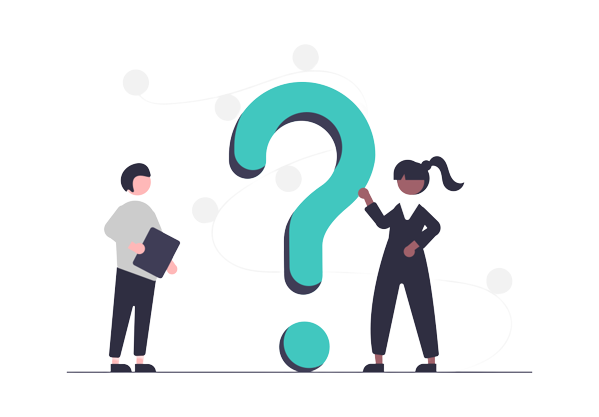
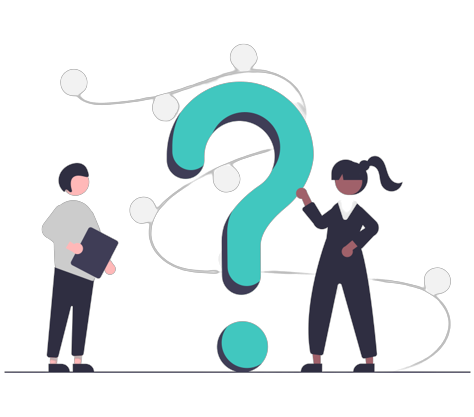
trying to make the gettarted page

diff --git a/src/app/(pages)/get-started/page.js b/src/app/(pages)/get-started/page.js
@@ -5,9 +5,9 @@ import GlobalSpinner from '@/Components/GlobalSpinner';
 import { SitePrimaryFont, SiteSecondaryFont } from '@/fonts/Fonts';
 import { GlobalTheme } from '@/theme';
 import { useAuth0 } from '@auth0/auth0-react'
-import { Box, Center, Container, HStack, Heading, Spinner, Text, VStack } from '@chakra-ui/react'
+import { Box, Center, Container, HStack, Heading, Input, Spinner, Text, VStack } from '@chakra-ui/react'
 import Image from 'next/image';
-import React, { useState } from 'react'
+import React, { useEffect, useState } from 'react'
 import {AiOutlineArrowRight} from 'react-icons/ai'
 
 
@@ -19,10 +19,16 @@ function page() {
     // Fixed size of the image
     const IMG_SIZE = 600;
 
-    const [stepCount, setStepCount] = useState(1)
+    const [stepCount, setStepCount] = useState(0)
 
     // Array of Objects that carries info required for logic
     const dots = ["•","•", "•"];
+
+    // No. of times workout state
+    const [times , setTimes] = useState(3)
+
+    // Shows the btn
+    const [isNotEmpty , setIsNotEmpty] = useState(true);
 
     const handleSteps = () => {
         
@@ -34,25 +40,48 @@ function page() {
     if(!user){
         return <GlobalSpinner />
     }
+    
+    
+    
 
   return (
     // Step 1 
     <Container w={'100%'} h={'100vh'} display={'flex'} alignItems={'center'}>
-        <VStack textAlign={'center'} >
-        <Image  alt='step1' width={IMG_SIZE}  height={IMG_SIZE} src={'/get-started-assets/1.png'}/>
-        <Heading fontWeight={'bold'} letterSpacing={'2px'} size={'3xl'} className={SitePrimaryFont.className}>Hello <span style={{color: GlobalTheme.primary}}>{user.name.split(" ")[0]}</span>.</Heading>
-        <Text mt={'5'} color={'#fff'} className={SiteSecondaryFont.className}  >Thanks for trying out progressive pulse. I need some details in order to track your workout efficiently</Text>
+       <form action="">
+       <VStack textAlign={'center'} >
+            {/* Step: 1 Component */}
+        {
+            stepCount === 0 ? <Box>
+            <Image  alt='step1' width={IMG_SIZE}  height={IMG_SIZE} src={'/get-started-assets/1.png'}/>
+            <Heading fontWeight={'bold'} letterSpacing={'2px'} size={'3xl'} className={SitePrimaryFont.className}>Hello <span style={{color: GlobalTheme.primary}}>{user.name.split(" ")[0]}</span>.</Heading>
+            <Text mt={'5'} color={'#fff'} className={SiteSecondaryFont.className}  >Thanks for trying out progressive pulse. I need some details in order to track your workout efficiently</Text>
+            </Box> : stepCount === 1 ?  <Box display={'flex'} justifyContent={'center'} flexDirection={'column'} alignItems={'center'}>
+            <Image  alt='step2' width={IMG_SIZE - 100}  height={IMG_SIZE -100} src={'/get-started-assets/2.png'}/>
+            <Heading fontWeight={'bold'} letterSpacing={'2px'} size={'3xl'} className={SitePrimaryFont.className}>How many times do you workout?</Heading>
+            <div>
+            <Input  type='number' mt={'5'} placeholder='Enter here' textAlign={'center'} w={'30%'} required value={times} onChange={(e) => {
+               setTimes(e.target.value) 
+              
+            }}/>
+            </div>
+            </Box> : stepCount === 2 ? <Box>three</Box> : null
+        }
+        
+       
         <HStack mb={'7'}>
         {
             dots.map((dot , i) => {
-                return <Text key={i} color={stepCount === i + 1 ? GlobalTheme.primary : null}>{dot}</Text>
+                return <Text key={i} color={stepCount === i  ? GlobalTheme.primary : null}>{dot}</Text>
             })
         }
         </HStack>
-        <Box onClick={handleSteps}>
-        <GlobalButton variant='solid' value="OK , Next Step" rightIcon={<AiOutlineArrowRight />}  />
-        </Box>
+        {
+            !isNotEmpty ? null :  <Box onClick={handleSteps}>
+            <GlobalButton variant='solid' value="OK , Next Step" rightIcon={<AiOutlineArrowRight />}  />
+            </Box>
+        }
     </VStack>
+       </form>
     </Container>
   )
 }
